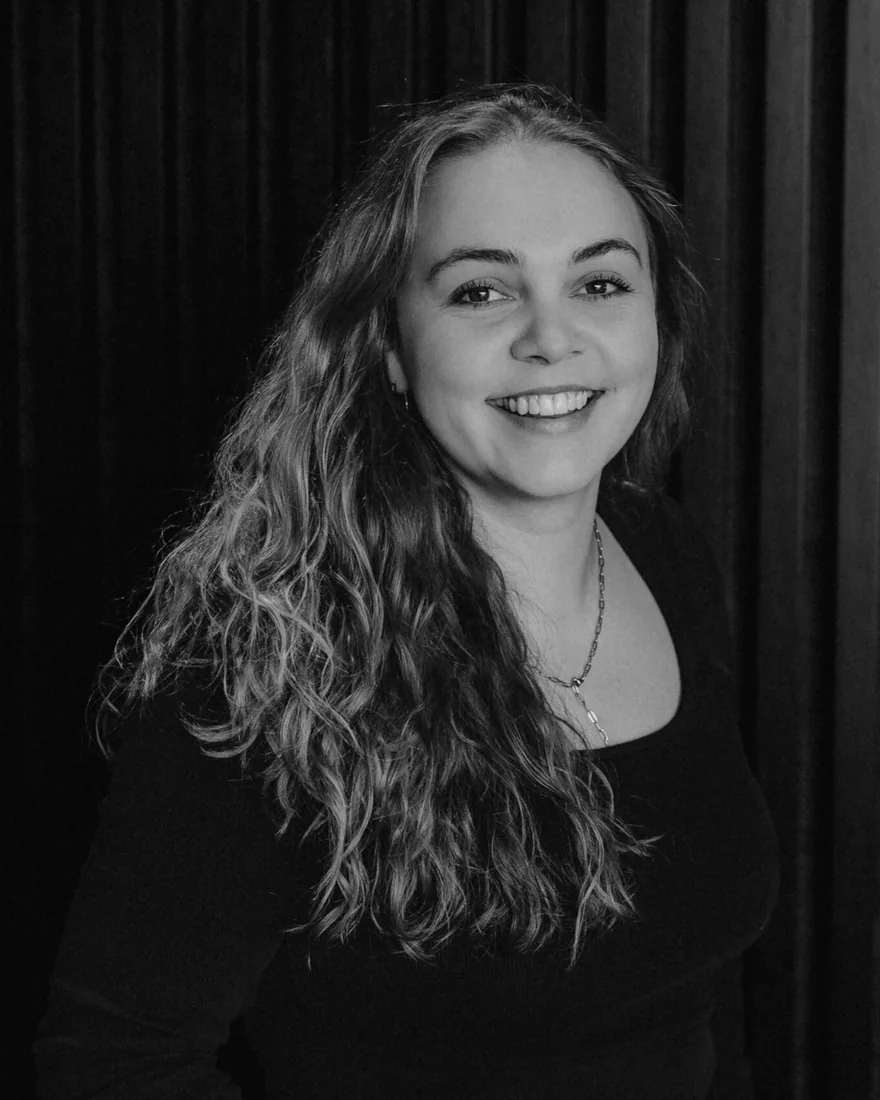
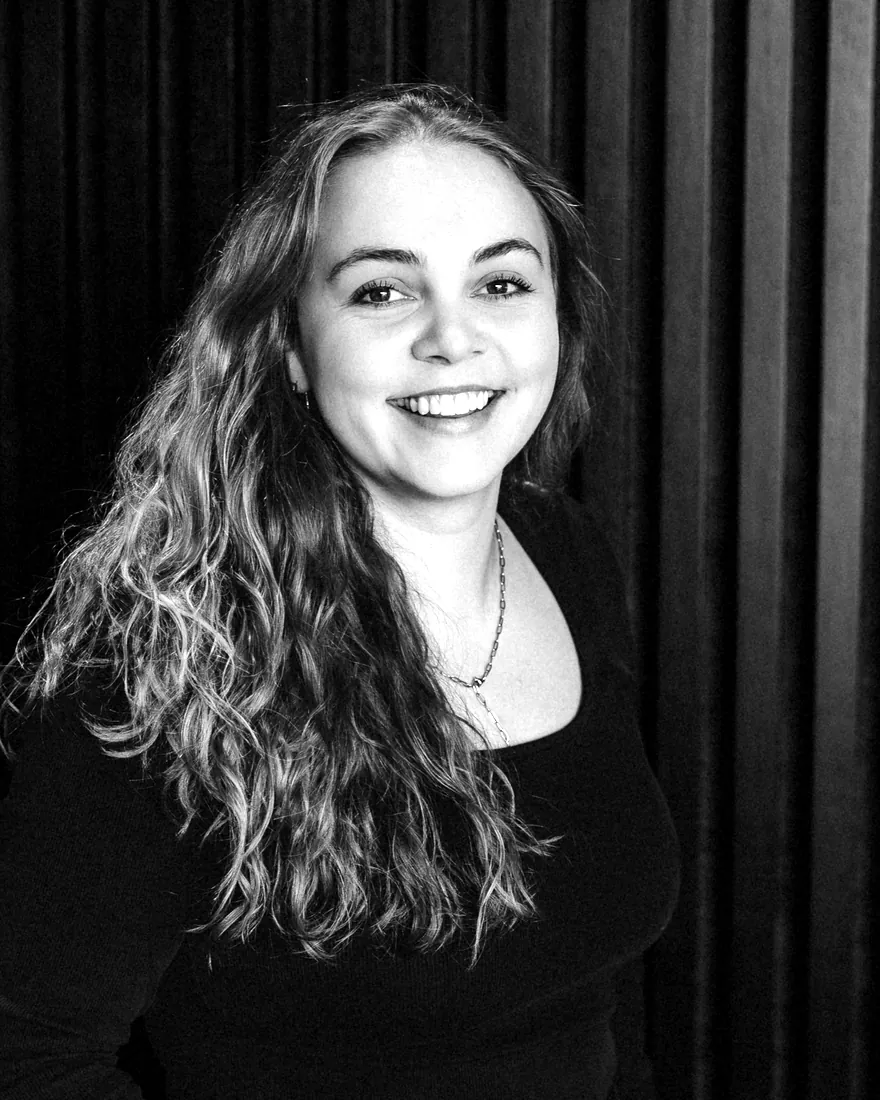
Neue Teamfotos: Leonie Wältring, Lucas Dienewald, Lorenz Engelshove

diff --git a/index.html b/index.html
@@ -18,7 +18,7 @@
 <link rel="stylesheet" href="css/style.css?v=20261121a">
 <style>:root{--leiste:0px}</style>
 <link rel="stylesheet" href="css/hero.css?v=20261120t">
-<script>window.STAND="20261123-144653";fetch("stand.txt?"+Date.now(),{cache:"no-store"}).then(function(r){return r.text()}).then(function(t){t=t.trim();if(t&&t!==window.STAND&&!sessionStorage.getItem("stand-"+t)){sessionStorage.setItem("stand-"+t,"1");location.reload()}}).catch(function(){})</script>
+<script>window.STAND="20261123-145359";fetch("stand.txt?"+Date.now(),{cache:"no-store"}).then(function(r){return r.text()}).then(function(t){t=t.trim();if(t&&t!==window.STAND&&!sessionStorage.getItem("stand-"+t)){sessionStorage.setItem("stand-"+t,"1");location.reload()}}).catch(function(){})</script>
 <script>if(!(window.matchMedia&&matchMedia("(prefers-reduced-motion: reduce)").matches))document.documentElement.classList.add("bewegt")</script>
 </head>
 <body class="start">
